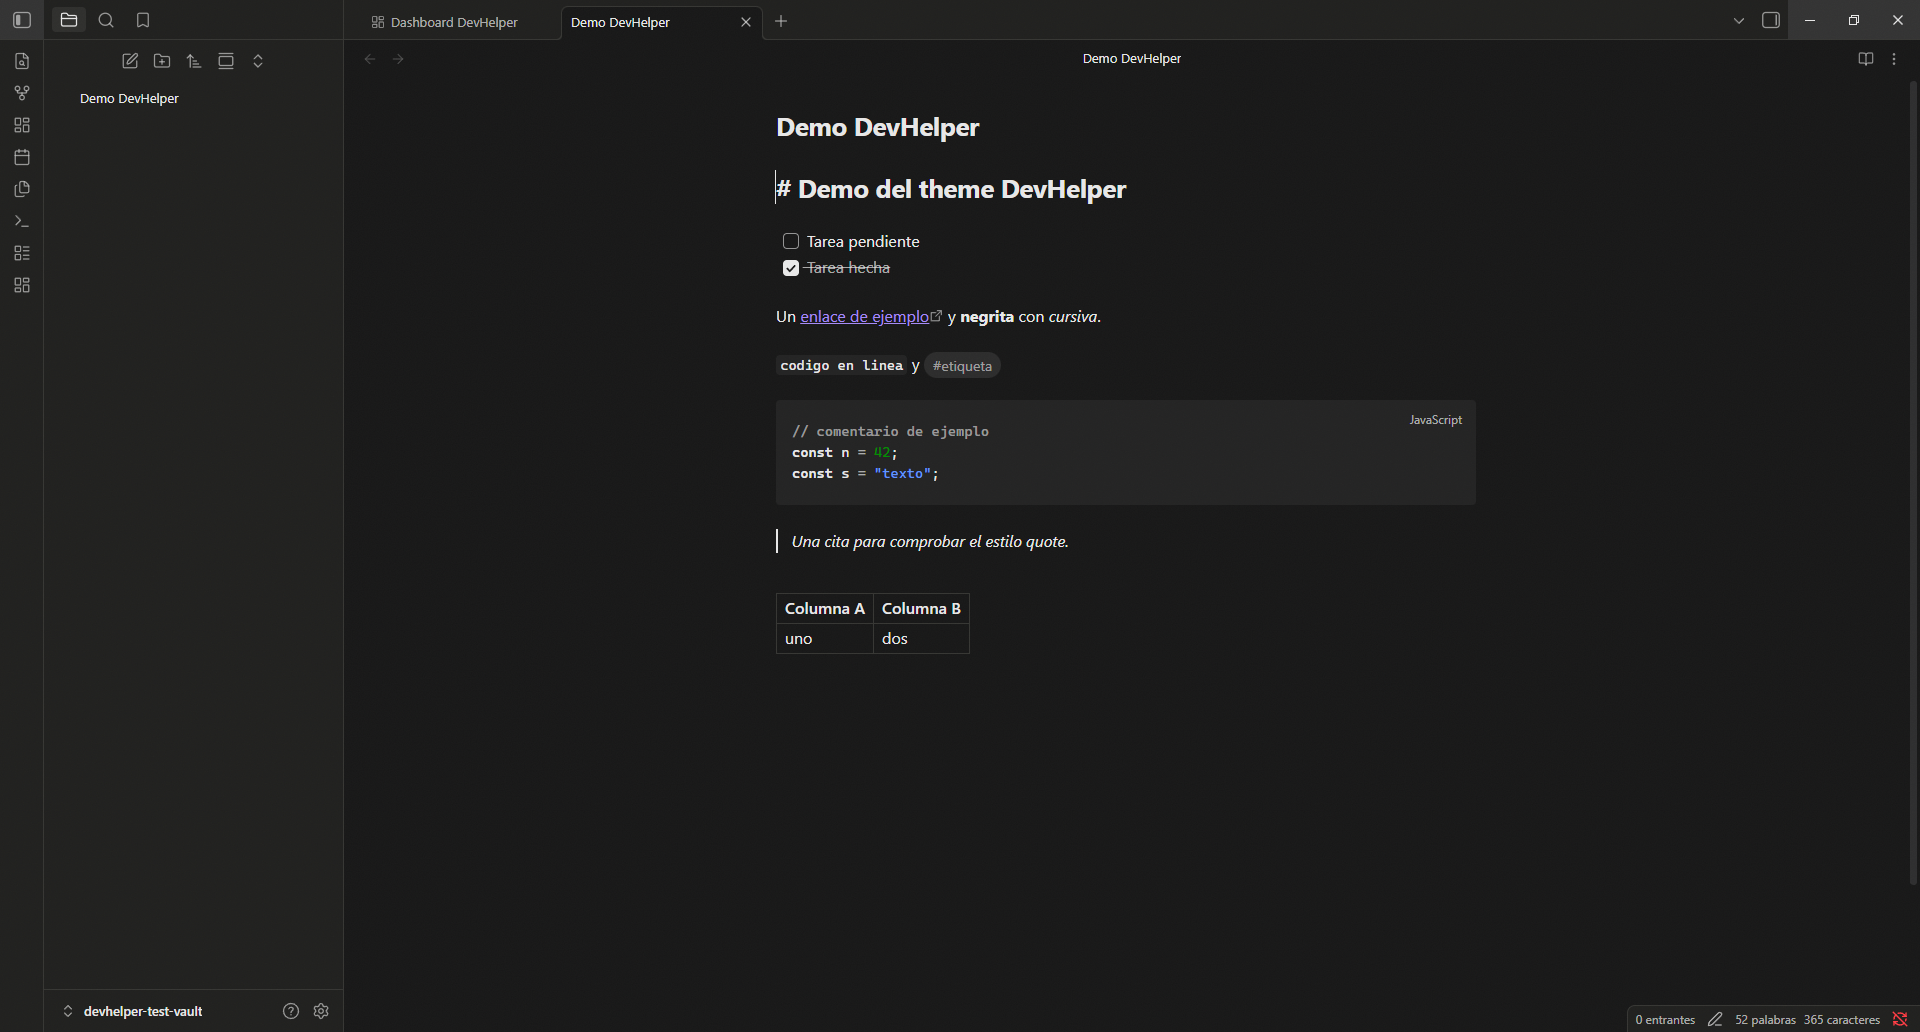
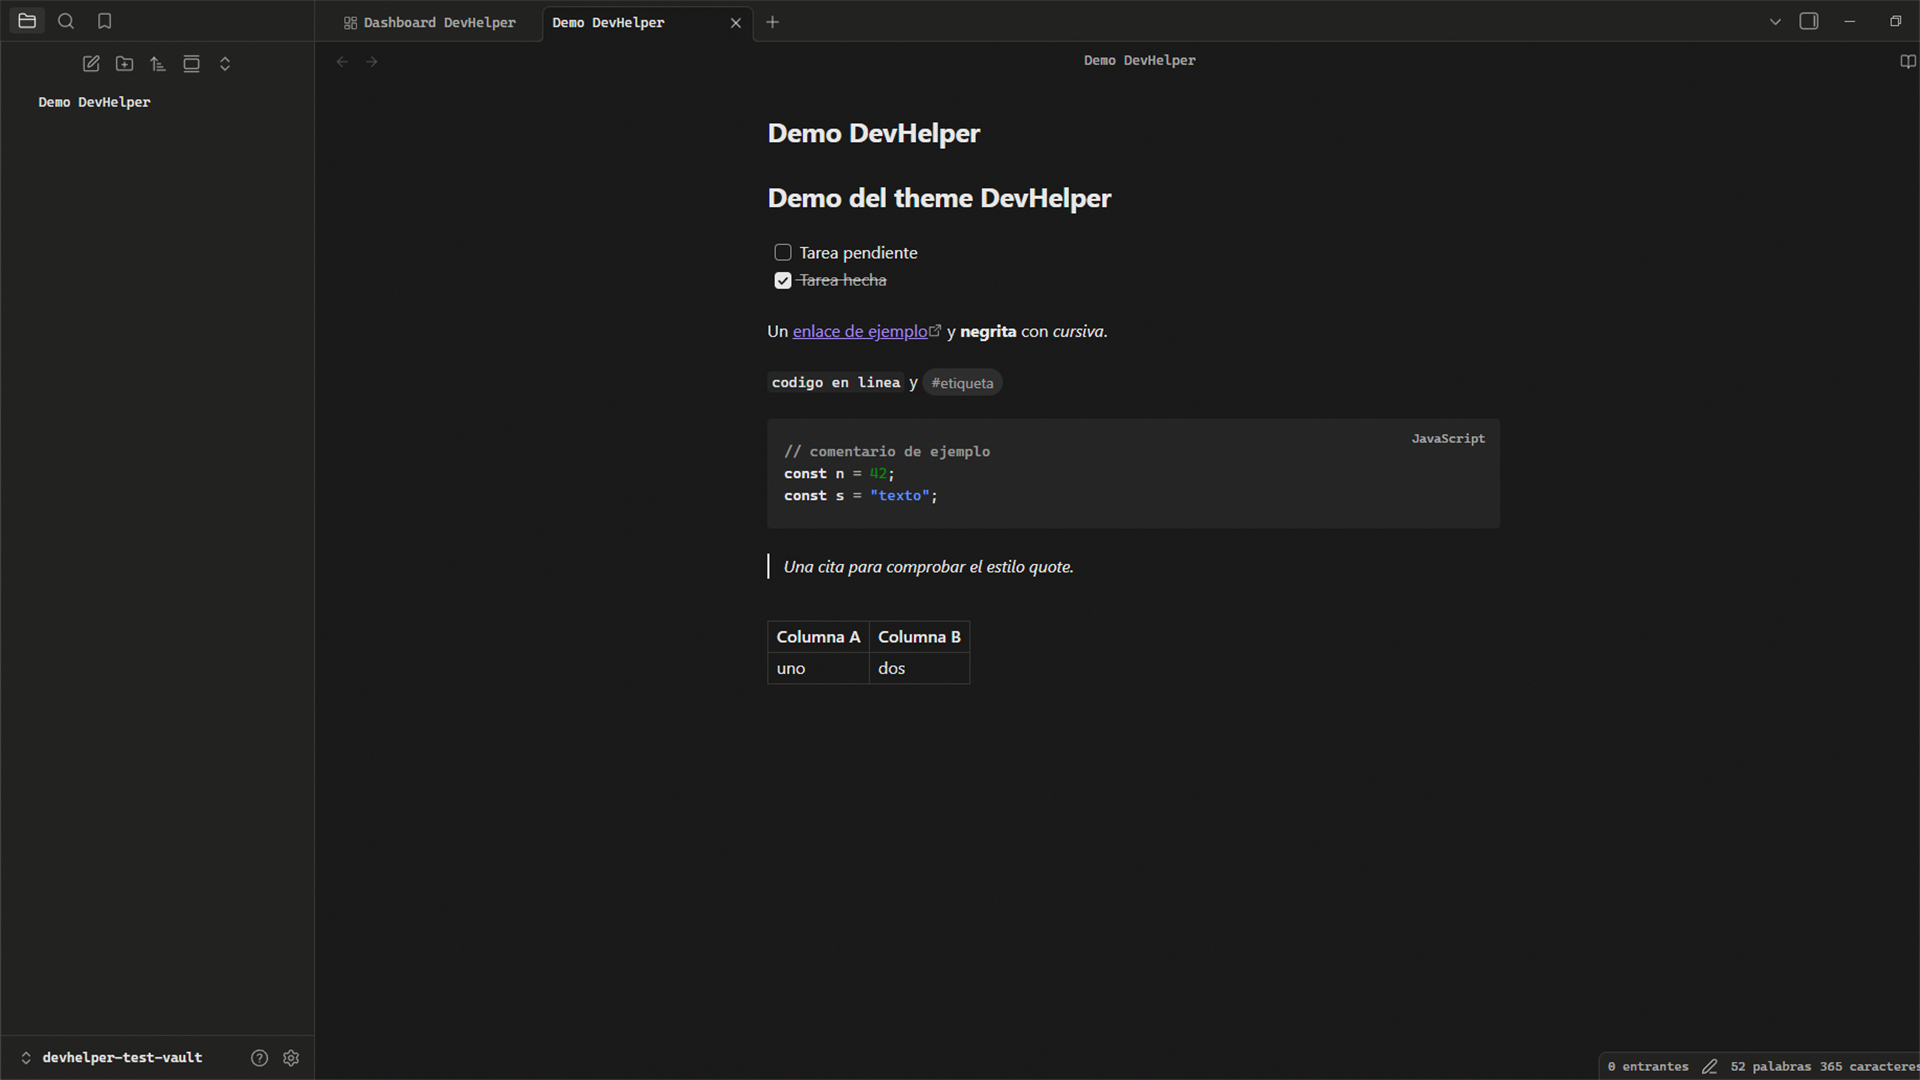
fix: recapturar la galería en 16:9 y documentar la vista móvil

diff --git a/theme/README.md b/theme/README.md
@@ -29,7 +29,10 @@ la comunidad** e instálalo desde ahí.
 
 - `screenshots/screenshot.png` — miniatura 16:9 (512×288).
 - `screenshots/screenshot-editor.png` — editor con sidebar en escritorio.
-- `screenshots/screenshot-mobile.png` — vista con emulación móvil.
+- `screenshots/screenshot-mobile.png` — vista con emulación móvil a ancho de
+  escritorio (1920×1080); la barra inferior móvil es visible y usa los estilos
+  del theme. Verificada también a ancho estrecho real (414 px): la toolbar se
+  muestra con fondo `--background-secondary` y objetivos de 44 px.
 
 ## Compatibilidad
 
